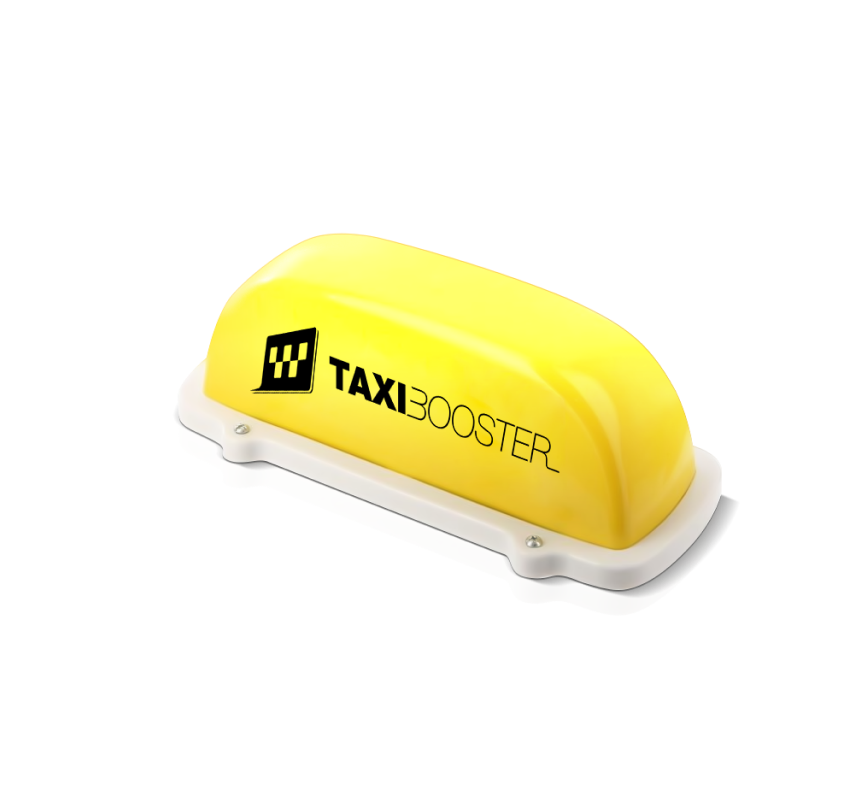
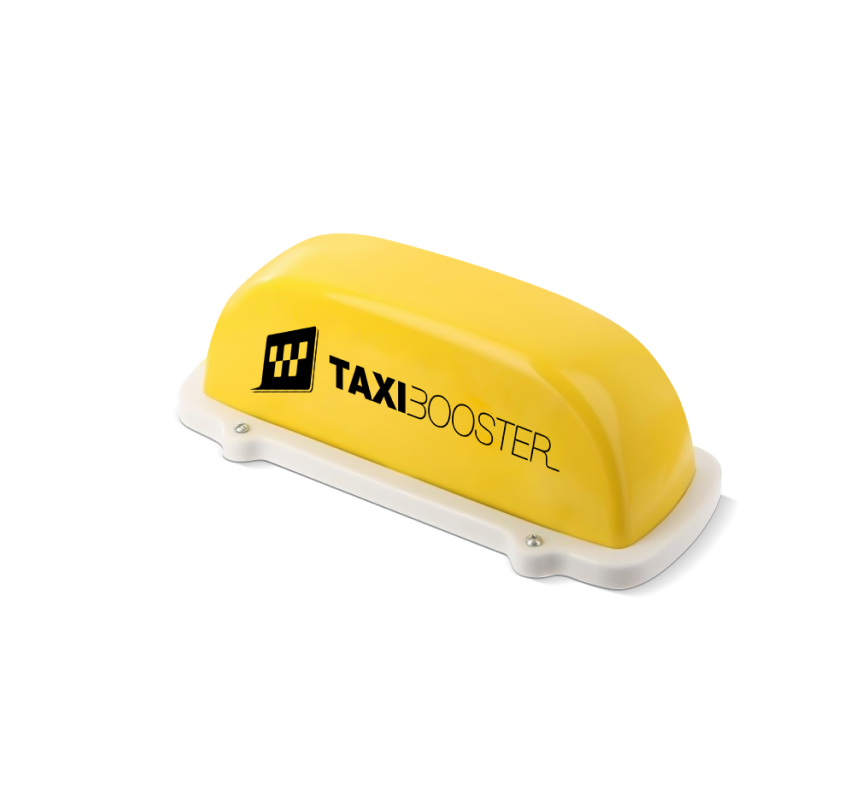
add work slider blink pics

diff --git a/components/Sliders/WorkSlider.vue b/components/Sliders/WorkSlider.vue
@@ -48,6 +48,7 @@ export default {
           siteLink: 'https://agentstudios.ru/',
           description: 'Поиск студий и локаций для съемок. Мы придумали абсолютно новый сервис по бронированию студий и локаций для фото- и видеосъемки!',
           slideRain: require('@/assets/images/works/rains/slide-2.png'),
+          // slideOverlay: require('@/assets/images/works/slide-pics/slide-2_overlay.png'),
           slidePicture: require('@/assets/images/works/slide-pics/slide-2.png'),
           backgroundColor: '#FFD542',
           logoColor: '#F4CC3E',
@@ -59,6 +60,7 @@ export default {
           description: 'Это полный набор инструментов, которые раскроют потенциал вашего таксопарка и повысят его эффективность',
           slideRain: require('@/assets/images/works/rains/slide-3.png'),
           slidePicture: require('@/assets/images/works/slide-pics/slide-3.png'),
+          slideOverlay: require('@/assets/images/works/slide-pics/slide-3_overlay.png'),
           backgroundColor: '#8B326B',
           logoColor: '#843066',
         },

diff --git a/assets/scss/components/_work-slider.scss b/assets/scss/components/_work-slider.scss
@@ -58,6 +58,26 @@
       height: auto;
     }
   }
+  &__overlay{
+    position: absolute;
+    top: 0;
+    left: 0;
+    right: 0;
+    bottom: 0;
+    opacity: 0;
+    animation: blink 3s infinite cubic-bezier(0.1, -0.6, 0.2, 0);;
+    @keyframes blink {
+      0% {
+        opacity: 0;
+      }
+      50% {
+        opacity: 1;
+      }
+      100% {
+        opacity: 0;
+      }
+    }
+  }
   &__static{
     height: 100%;
     padding: 200px 0 100px 0;

diff --git a/components/Sliders/Slides/WorkSlide.vue b/components/Sliders/Slides/WorkSlide.vue
@@ -19,6 +19,7 @@
           </div>
           <div class="w-slider__pic">
             <img :src="slideData.slidePicture" alt="">
+            <img class="w-slider__overlay" v-if="slideData.slideOverlay" :src="slideData.slideOverlay" alt="">
           </div>
         </div>
         <div class="w-slide-info w-slide-info_desk">
